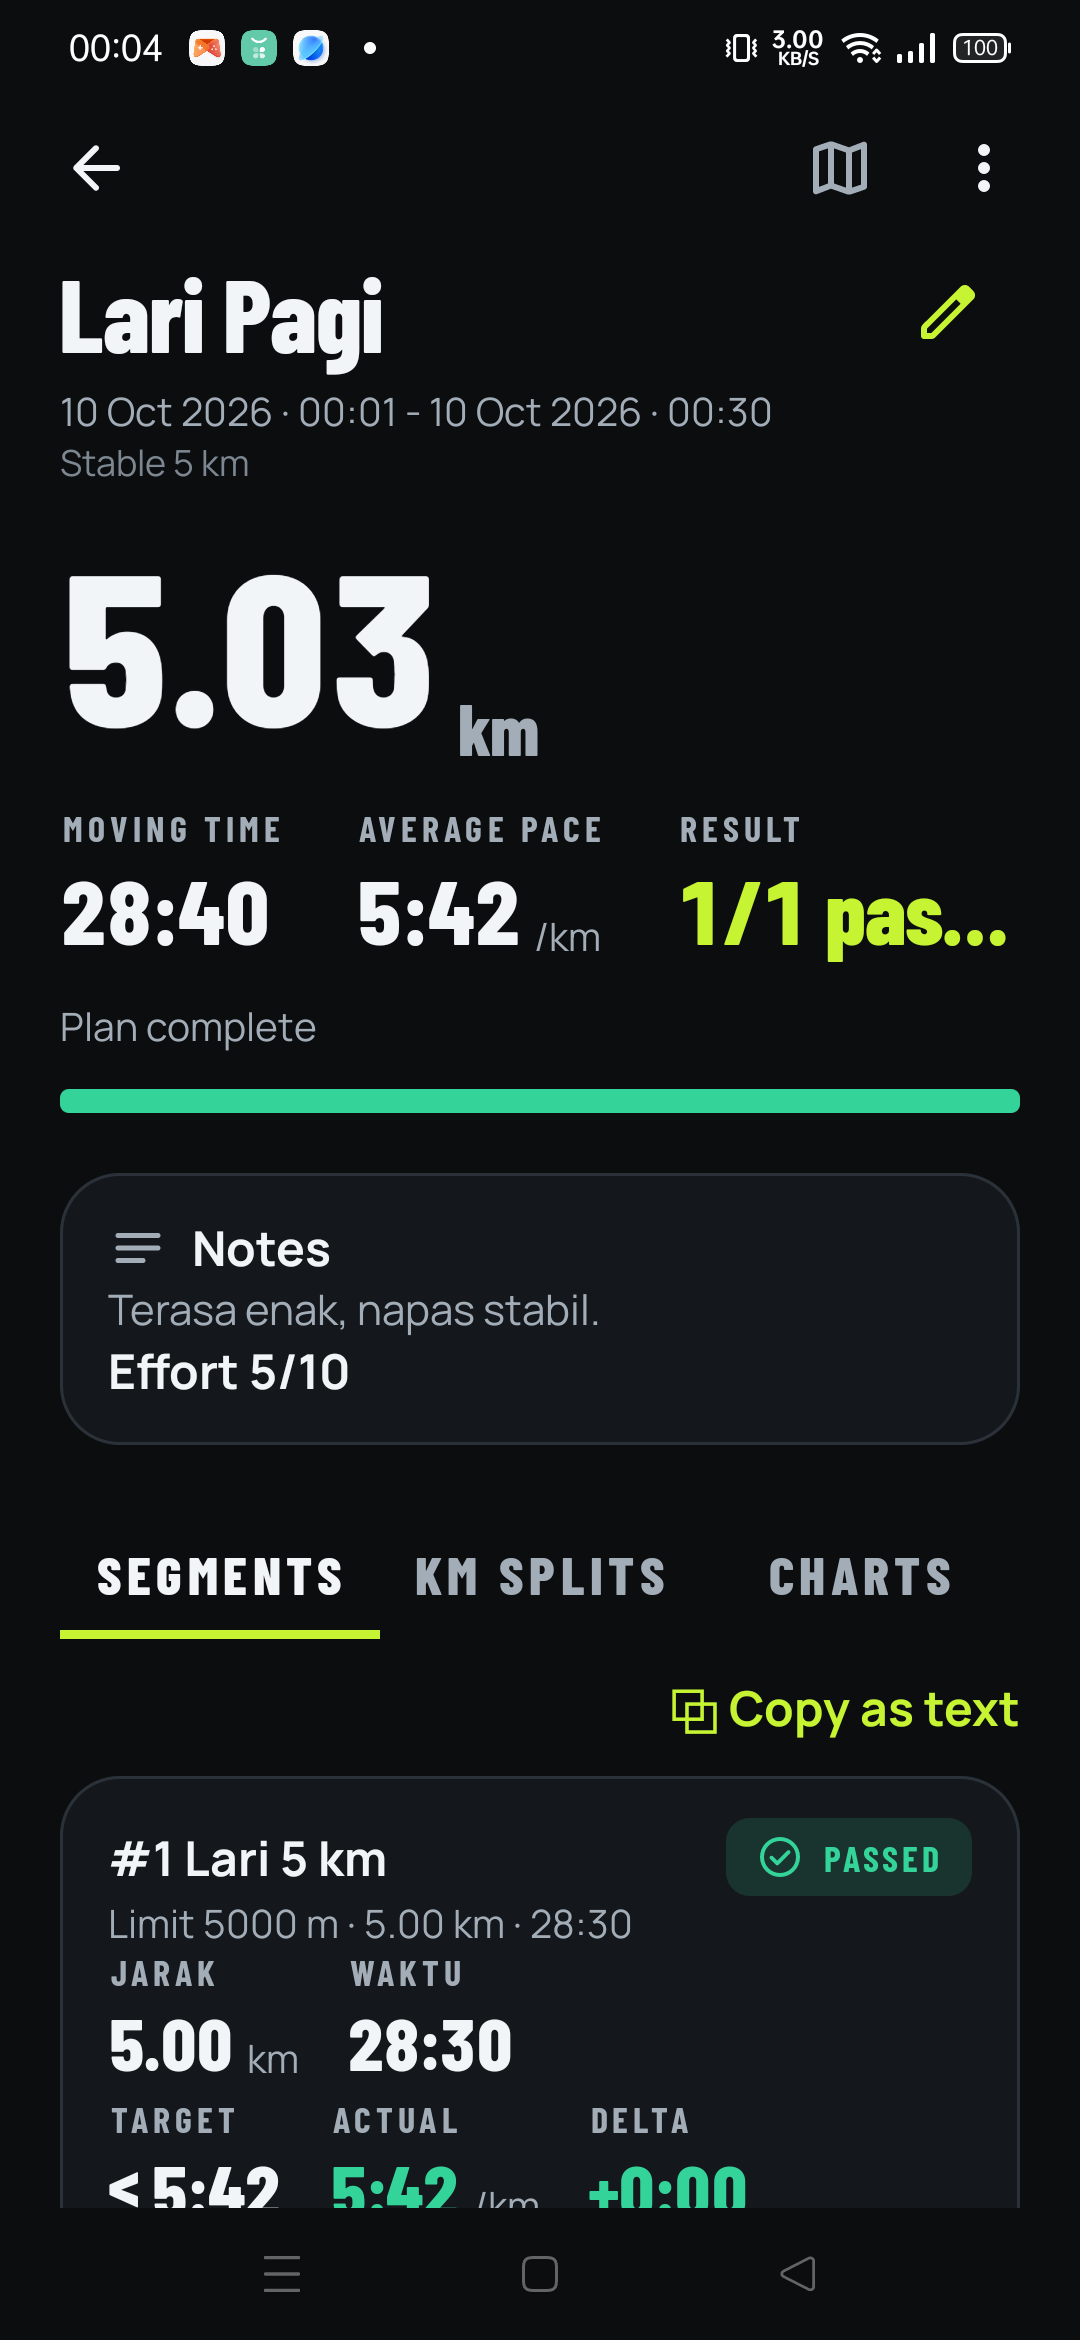
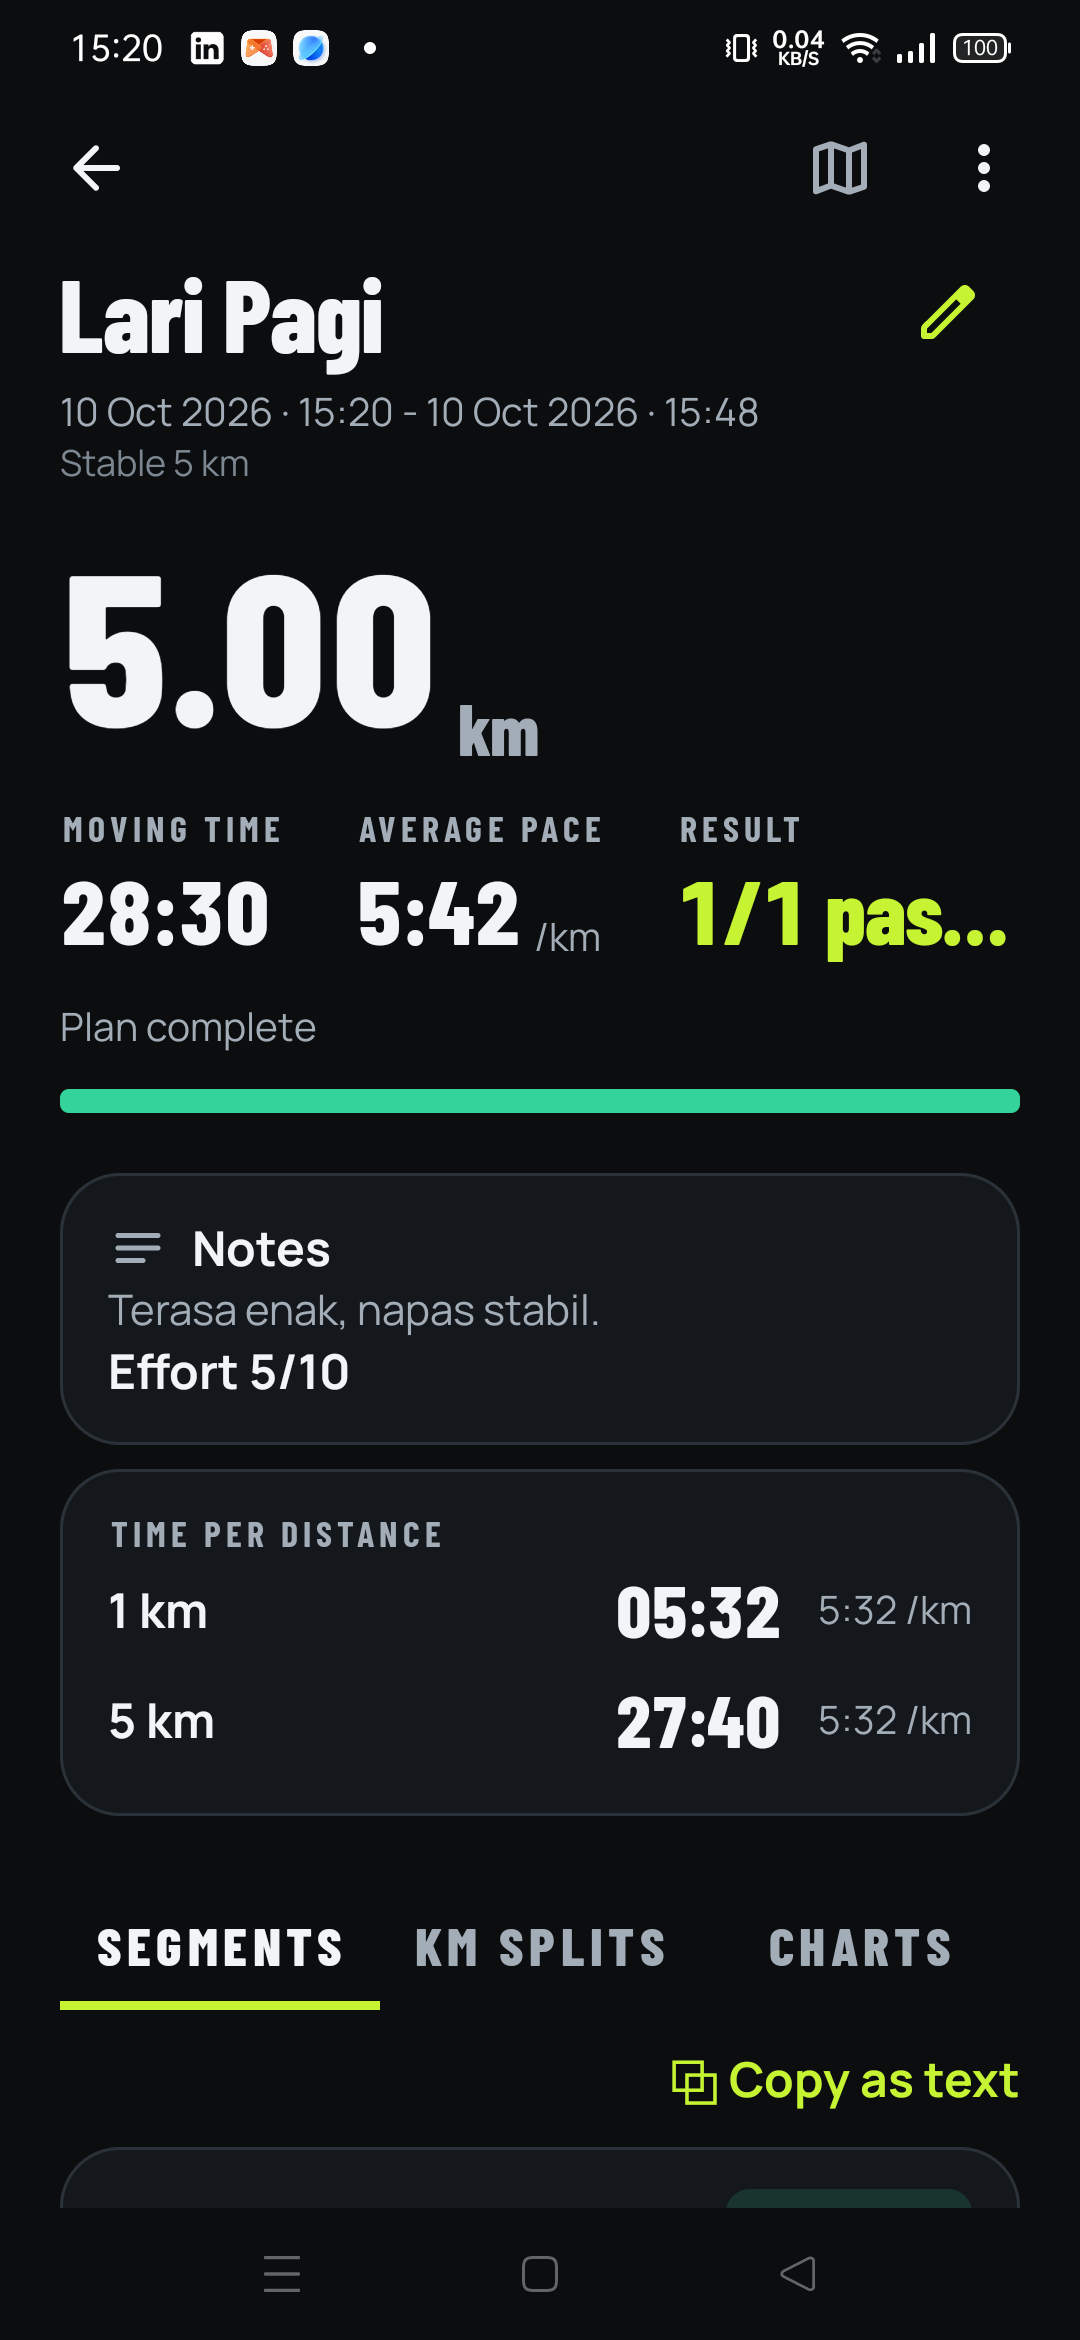
docs: sample fix + S04 copy note

diff --git a/docs/PROGRESS.md b/docs/PROGRESS.md
@@ -715,3 +715,8 @@ Sumber kebenaran visual baru = `docs/ui-review/mock/` (HTML/CSS). Isi/data halam
   segmen/split/**rekor** dihitung via `SessionResultsCalculator` dari kurva itu (tidak lagi angka karangan 0.97/0.99).
   Jadi halaman Rekor selalu cocok dengan data historisnya.
 - Test: `MilestoneTimesTest` menambah cek rekor == waktu per-jarak. Engine **231 hijau**.
+
+## Lanjutan (2026-10-12)
+- Sample: track contoh dibuat lurus (lon konstan) agar jarak haversine = jarak nominal, sehingga "Waktu per jarak" di
+  detail sesi sama dengan Rekor.
+- S04: tombol "Copy as text" di pra-start (struktur workout bisa disalin tanpa harus start).
